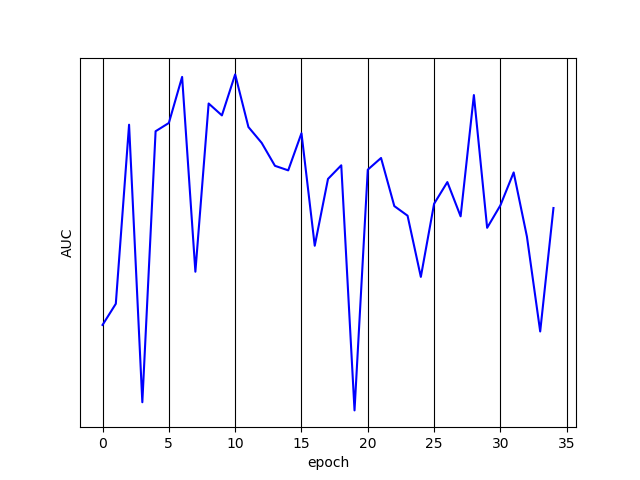
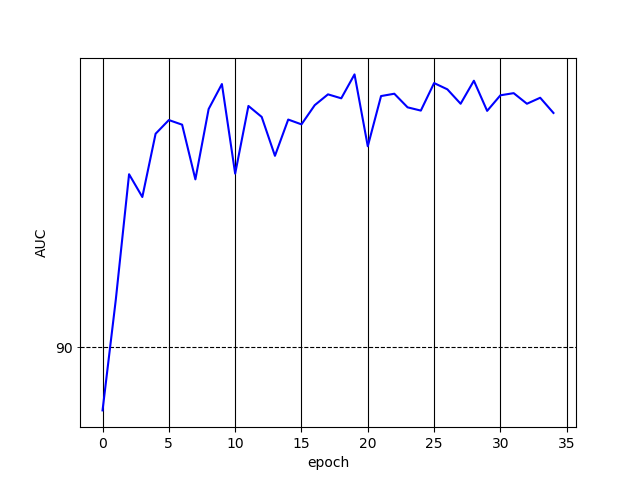
NN_solution

diff --git a/NN_solution/delta_spectrogram_simplenet/model.py b/NN_solution/delta_spectrogram_simplenet/model.py
@@ -2,6 +2,11 @@ from torch.backends import cudnn
 from src.utils import *
 from simplenet import *
 
+#
+import matplotlib
+matplotlib.use('Agg')
+import matplotlib.pyplot as plt
+#
 class BaseNet(object):
     def __init__(self):
         cprint('c', '\nNet:')
@@ -58,14 +63,17 @@ class Net(BaseNet):
         self.epoch = 0
         self.adapt_shape = adapt_shape
 
+        self.test=False
+
     def create_net(self):
         torch.manual_seed(42)
         torch.cuda.manual_seed(42)
 
         self.model = simplenet(classes=2, channels_in=self.channels_in)
-        self.downsample_model = channel_downsampler(channels_in=60, channels_out=32)
+        self.downsample_model = channel_downsampler(channels_in=120, channels_out=64)
         if self.cuda:
             self.model.cuda()
+            self.downsample_model.cuda()
             cudnn.benchmark = True
 
         print('    Total params: %.2fM' % (self.get_nb_parameters() / 1000000.0))
@@ -81,14 +89,35 @@ class Net(BaseNet):
 
         batch_size  = x.shape[0]
         x = x.squeeze(dim=1)
-        normal_shape = x[:, :, :96].view(batch_size, 160, 3, 32).permute(0,2,1,3)
-        multires_features = x[:, :, 96:].permute(0,2,1)
+        normal_shape = x[:, :, :96].contiguous().view(batch_size, 160, 32, 3).permute(0,3,1,2)
+        multires_features = x[:, :, 96:].permute(0,2,1)        # batch_size, 120, 160
 
-        print(multires_features.shape)
+        if not self.test:
+            self.test = True
+            plt.figure()
+            plt.imshow(normal_shape[0, 0].data.cpu().numpy().T, cmap='jet', aspect='auto')
+            plt.gca().invert_yaxis()
+            plt.savefig('test0.png')
+            plt.figure()
+            plt.imshow(normal_shape[0, 1].data.cpu().numpy().T, cmap='jet', aspect='auto')
+            plt.gca().invert_yaxis()
+            plt.savefig('test1.png')
+            plt.figure()
+            plt.imshow(normal_shape[0, 2].data.cpu().numpy().T, cmap='jet', aspect='auto')
+            plt.gca().invert_yaxis()
+            plt.savefig('test2.png')
+            plt.figure()
+            plt.imshow(multires_features[0].data.cpu().numpy(), cmap='jet', aspect='auto')
+            plt.gca().invert_yaxis()
+            plt.savefig('test3.png')
+            plt.figure()
+            # plt.imshow(normal_shape[0, 4].data.cpu().numpy().T, cmap='jet', aspect='auto')
+            # plt.gca().invert_yaxis()
+            # plt.savefig('test4.png')
+
         multires_features = self.downsample_model(multires_features)
-        print(multires_features.shape)
 
-        multires_features = multires_features.view(batch_size, 2, 32, 160).permute(0, 1, 3, 2)
+        multires_features = multires_features.permute(0, 2, 1).contiguous().view(batch_size, 160, 32, 2).permute(0, 3, 1, 2)
 
         normal_shape = torch.cat((normal_shape, multires_features), dim=1)
 

diff --git a/NN_solution/delta_spectrogram_simplenet/run4_multiresolution.py b/NN_solution/delta_spectrogram_simplenet/run4_multiresolution.py
@@ -35,7 +35,7 @@ approx_features = np.load('../data/processed_data_swt_approx.npy')
 detail_features = np.load('../data/processed_data_swt_details.npy')
 
 # Reshape into something loadable
-ready_data = np.reshape(ready_data, newshape=(ready_data.shape[0], 160, 64), order='C')
+ready_data = np.reshape(ready_data, newshape=(ready_data.shape[0], 160, 96), order='C')
 ready_data = np.concatenate((ready_data, approx_features, detail_features), axis=2)
 ready_data = np.expand_dims(ready_data, axis=3)
 
@@ -68,10 +68,10 @@ transform_test = transforms.Compose([
 ])
 
 trainset = Datafeed(x_train, t_train, transform=transform_train)
-trainloader = torch.utils.data.DataLoader(trainset, batch_size=batch_size, shuffle=True, pin_memory=True, num_workers=3)
+trainloader = torch.utils.data.DataLoader(trainset, batch_size=batch_size, shuffle=True, pin_memory=False, num_workers=1)
 
 testset = Datafeed(x_dev, t_dev, transform=transform_test)
-testloader = torch.utils.data.DataLoader(testset, batch_size=batch_size, shuffle=True, pin_memory=True, num_workers=3)
+testloader = torch.utils.data.DataLoader(testset, batch_size=batch_size, shuffle=True, pin_memory=False, num_workers=1)
 
 ## ---------------------------------------------------------------------------------------------------------------------
 # net dims
